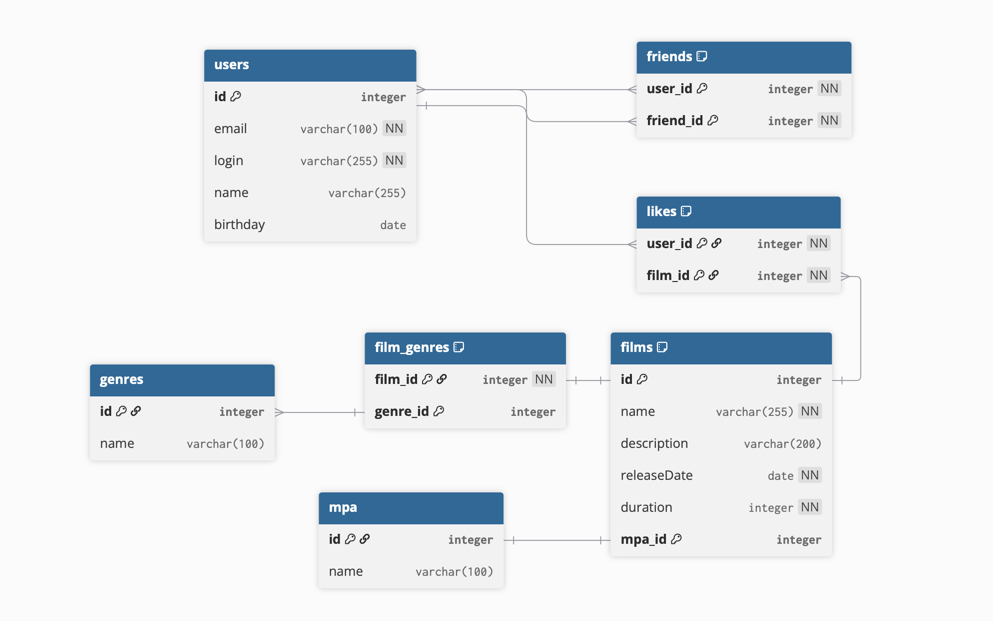
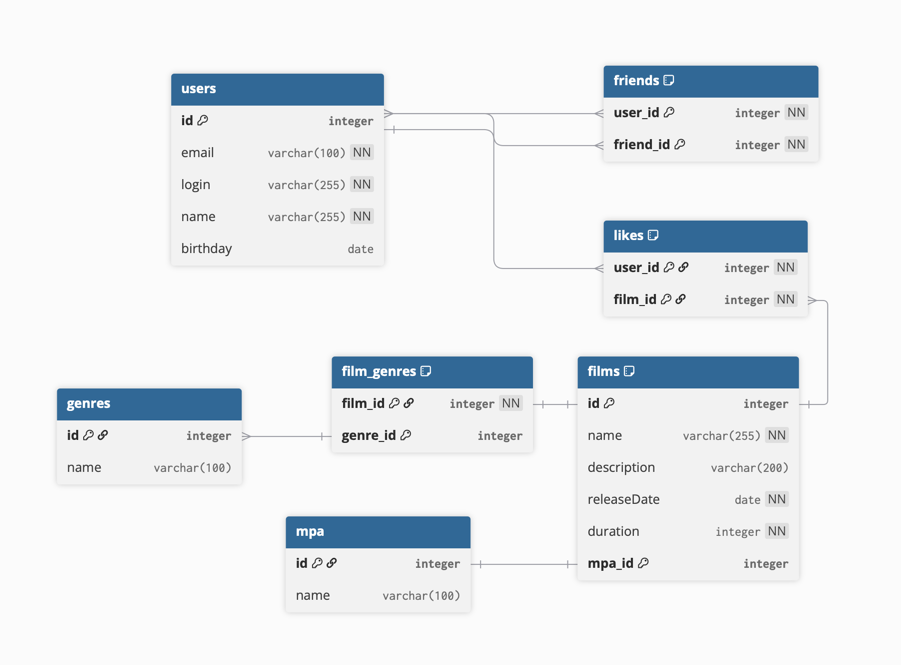
sprint 12 v2

diff --git a/src/main/java/ru/yandex/practicum/filmorate/storage/FriendsStorage.java b/src/main/java/ru/yandex/practicum/filmorate/storage/FriendsStorage.java
@@ -3,6 +3,8 @@ package ru.yandex.practicum.filmorate.storage;
 import lombok.AllArgsConstructor;
 import org.springframework.jdbc.core.JdbcTemplate;
 import org.springframework.stereotype.Repository;
+import ru.yandex.practicum.filmorate.model.User;
+import ru.yandex.practicum.filmorate.storage.mappers.UserRowMapper;
 
 import java.util.List;
 
@@ -10,6 +12,7 @@ import java.util.List;
 @AllArgsConstructor
 public class FriendsStorage {
     private final JdbcTemplate jdbcTemplate;
+    private final UserRowMapper userRowMapper = new UserRowMapper();
 
     public void addFriend(Integer userId, Integer friendId) {
         String sql = "INSERT INTO friends (user_id, friend_id) VALUES (?, ?)";
@@ -21,8 +24,22 @@ public class FriendsStorage {
         jdbcTemplate.update(sql, userId, friendId);
     }
 
-    public List<Integer> getFriendsIds(Integer userId) {
-        String sql = "SELECT friend_id FROM friends WHERE user_id = ?";
-        return jdbcTemplate.query(sql, (rs, rowNum) -> rs.getInt("friend_id"), userId);
+    public List<User> getFriends(Integer userId) {
+        String sql = "SELECT u.id, u.email, u.login, u.name, u.birthday " +
+                "FROM friends f " +
+                "JOIN users u ON f.friend_id = u.id " +
+                "WHERE f.user_id = ? " +
+                "ORDER BY u.id";
+        return jdbcTemplate.query(sql, userRowMapper, userId);
+    }
+
+    public List<User> getCommonFriends(Integer userId, Integer otherId) {
+        String sql = "SELECT u.id, u.email, u.login, u.name, u.birthday " +
+                "FROM friends f1 " +
+                "JOIN friends f2 ON f1.friend_id = f2.friend_id " +
+                "JOIN users u ON f1.friend_id = u.id " +
+                "WHERE f1.user_id = ? AND f2.user_id = ? " +
+                "ORDER BY u.id";
+        return jdbcTemplate.query(sql, userRowMapper, userId, otherId);
     }
 }

diff --git a/src/main/java/ru/yandex/practicum/filmorate/service/UserService.java b/src/main/java/ru/yandex/practicum/filmorate/service/UserService.java
@@ -1,7 +1,6 @@
 package ru.yandex.practicum.filmorate.service;
 
 import lombok.AllArgsConstructor;
-import org.springframework.beans.factory.annotation.Qualifier;
 import org.springframework.stereotype.Service;
 import ru.yandex.practicum.filmorate.exception.ValidationException;
 import ru.yandex.practicum.filmorate.model.User;
@@ -9,14 +8,12 @@ import ru.yandex.practicum.filmorate.storage.FriendsStorage;
 import ru.yandex.practicum.filmorate.storage.UserStorage;
 
 import java.time.LocalDate;
-import java.util.ArrayList;
 import java.util.Collection;
 import java.util.List;
 
 @Service
 @AllArgsConstructor
 public class UserService {
-    @Qualifier("userDbStorage")
     private final UserStorage userStorage;
     private final FriendsStorage friendsStorage;
 
@@ -55,29 +52,13 @@ public class UserService {
 
     public List<User> getFriends(Integer userId) {
         findById(userId);
-        List<Integer> friendIds = friendsStorage.getFriendsIds(userId);
-
-        List<User> friends = new ArrayList<>();
-        for (Integer friendId : friendIds) {
-            friends.add(findById(friendId));
-        }
-        return friends;
+        return friendsStorage.getFriends(userId);
     }
 
     public List<User> getCommonFriends(Integer userId, Integer otherId) {
         findById(userId);
         findById(otherId);
-
-        List<Integer> userFriends = friendsStorage.getFriendsIds(userId);
-        List<Integer> otherFriends = friendsStorage.getFriendsIds(otherId);
-
-        List<User> common = new ArrayList<>();
-        for (Integer id : userFriends) {
-            if (otherFriends.contains(id)) {
-                common.add(findById(id));
-            }
-        }
-        return common;
+        return friendsStorage.getCommonFriends(userId, otherId);
     }
 
     private void validateUser(User user) {

diff --git a/src/main/java/ru/yandex/practicum/filmorate/storage/FilmDbStorage.java b/src/main/java/ru/yandex/practicum/filmorate/storage/FilmDbStorage.java
@@ -147,6 +147,38 @@ public class FilmDbStorage implements FilmStorage {
         return film;
     }
 
+    @Override
+    public List<Film> findTop(int count) {
+        String sql = "SELECT f.id, f.name, f.description, f.releaseDate, f.duration, " +
+                "f.mpa_id, m.name AS mpa_name " +
+                "FROM films f " +
+                "LEFT JOIN mpa m ON f.mpa_id = m.id " +
+                "LEFT JOIN likes l ON f.id = l.film_id " +
+                "GROUP BY f.id, f.name, f.description, f.releaseDate, f.duration, f.mpa_id, m.name " +
+                "ORDER BY COUNT(l.user_id) DESC, f.id ASC " +
+                "LIMIT ?";
+
+        List<Film> films = jdbcTemplate.query(sql, filmRowMapper, count);
+
+        String genreSql = "SELECT g.id, g.name " +
+                "FROM film_genres fg " +
+                "JOIN genres g ON fg.genre_id = g.id " +
+                "WHERE fg.film_id = ? " +
+                "ORDER BY g.id";
+
+        for (Film f : films) {
+            List<Genre> genres = jdbcTemplate.query(genreSql, (rs, rowNum) -> {
+                Genre g = new Genre();
+                g.setId(rs.getInt("id"));
+                g.setName(rs.getString("name"));
+                return g;
+            }, f.getId());
+            f.setGenres(new LinkedHashSet<>(genres));
+        }
+
+        return films;
+    }
+
     private void validateMpaAndGenres(Film film) {
         if (film.getMpa() != null) {
             Integer mpaId = film.getMpa().getId();

diff --git a/src/main/java/ru/yandex/practicum/filmorate/service/FilmService.java b/src/main/java/ru/yandex/practicum/filmorate/service/FilmService.java
@@ -1,7 +1,6 @@
 package ru.yandex.practicum.filmorate.service;
 
 import lombok.AllArgsConstructor;
-import org.springframework.beans.factory.annotation.Qualifier;
 import org.springframework.stereotype.Service;
 import ru.yandex.practicum.filmorate.exception.ValidationException;
 import ru.yandex.practicum.filmorate.model.Film;
@@ -15,7 +14,6 @@ import java.util.List;
 @Service
 @AllArgsConstructor
 public class FilmService {
-    @Qualifier("filmDbStorage")
     private final FilmStorage filmStorage;
     private final UserService userService;
     private final LikesStorage likesStorage;
@@ -55,14 +53,7 @@ public class FilmService {
     }
 
     public List<Film> getTopFilms(int count) {
-        return filmStorage.findAll().stream()
-                .sorted((f1, f2) ->
-                        Integer.compare(
-                                likesStorage.countLikes(f2.getId()),
-                                likesStorage.countLikes(f1.getId())
-                        ))
-                .limit(count)
-                .toList();
+        return filmStorage.findTop(count);
     }
 
     private void validateFilm(Film film) {

diff --git a/src/test/java/ru/yandex/practicum/filmorate/storage/FriendsStorageTest.java b/src/test/java/ru/yandex/practicum/filmorate/storage/FriendsStorageTest.java
@@ -38,11 +38,11 @@ class FriendsStorageTest {
         User createdFriend = userStorage.create(friend);
 
         friendsStorage.addFriend(created.getId(), createdFriend.getId());
-        List<Integer> friends = friendsStorage.getFriendsIds(created.getId());
-        assertThat(friends).contains(createdFriend.getId());
+        List<User> friends = friendsStorage.getFriends(created.getId());
+        assertThat(friends).extracting(User::getId).contains(createdFriend.getId());
 
         friendsStorage.removeFriend(created.getId(), createdFriend.getId());
-        List<Integer> afterRemove = friendsStorage.getFriendsIds(created.getId());
-        assertThat(afterRemove).doesNotContain(createdFriend.getId());
+        List<User> afterRemove = friendsStorage.getFriends(created.getId());
+        assertThat(afterRemove).extracting(User::getId).doesNotContain(createdFriend.getId());
     }
 }

diff --git a/src/main/java/ru/yandex/practicum/filmorate/storage/FilmStorage.java b/src/main/java/ru/yandex/practicum/filmorate/storage/FilmStorage.java
@@ -3,6 +3,7 @@ package ru.yandex.practicum.filmorate.storage;
 import ru.yandex.practicum.filmorate.model.Film;
 
 import java.util.Collection;
+import java.util.List;
 
 public interface FilmStorage {
     Film create(Film film);
@@ -12,4 +13,6 @@ public interface FilmStorage {
     Collection<Film> findAll();
 
     Film findById(Integer id);
+
+    List<Film> findTop(int count);
 }
